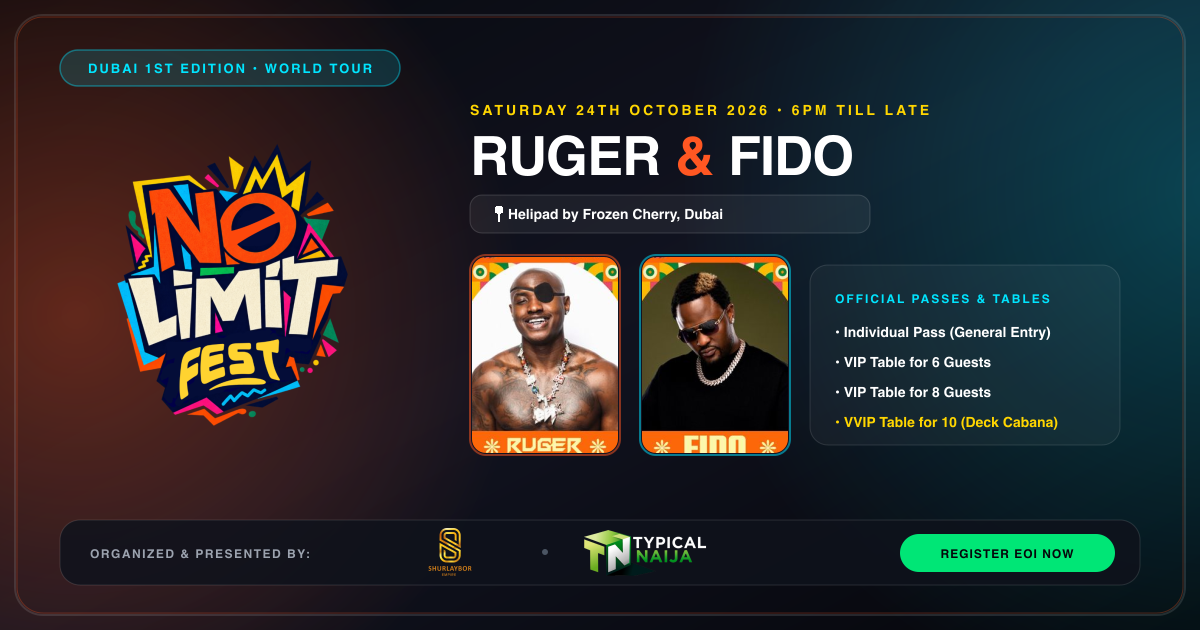
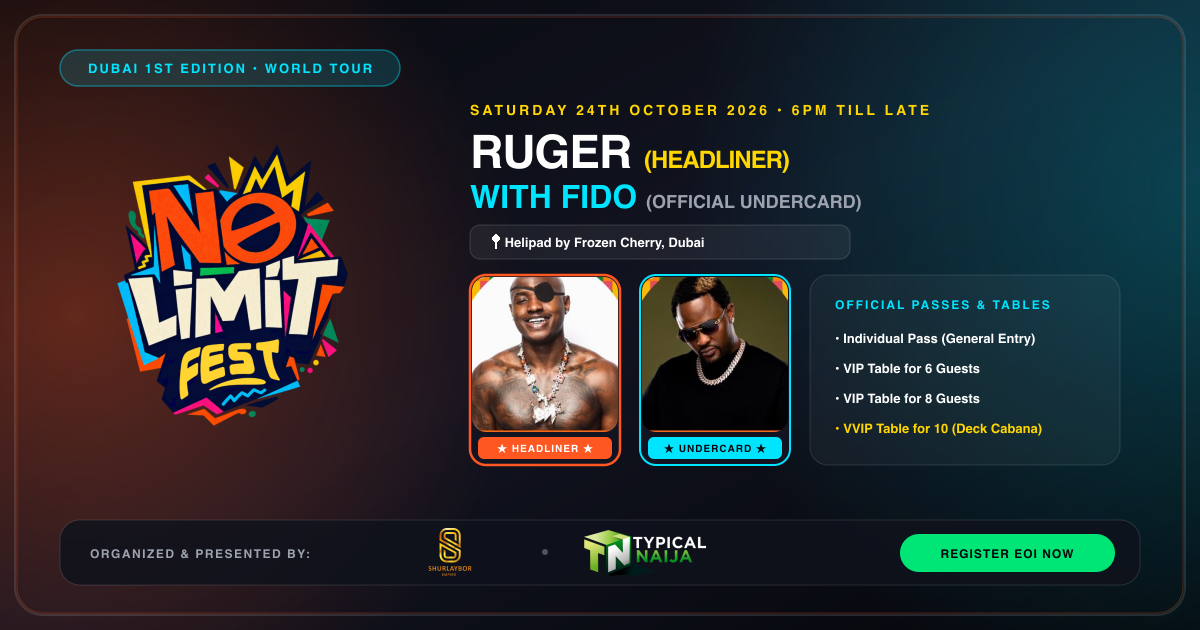
no message

Changed region(s): [[0.37, 0.2111, 0.8942, 0.754], [0.5858, 0.573, 0.6167, 0.6032], [0.4317, 0.6032, 0.4625, 0.6333]]

diff --git a/src/app/lineup/page.tsx b/src/app/lineup/page.tsx
@@ -17,9 +17,9 @@ import { getActiveEvent } from "@/data/events";
 import { siteConfig } from "@/config/site";
 
 export const metadata: Metadata = {
-  title: "Official Lineup: Ruger & Fido Live | No Limit Fest Dubai 2026",
+  title: "Official Lineup: Headliner Ruger & Undercard Fido | No Limit Fest Dubai 2026",
   description:
-    "Official headliners for No Limit Fest Dubai: Afrobeats superstars RUGER and FIDO live at Helipad by Frozen Cherry on Saturday 24th October 2026. Hit anthems 'Asiwaju', 'Bounce', 'Dior', 'Awolowo'. Register EOI now.",
+    "Official lineup for No Limit Fest Dubai: Headlined by Afrobeats superstar RUGER with official undercard performance by FIDO live at Helipad by Frozen Cherry on Saturday 24th October 2026. Hit anthems 'Asiwaju', 'Bounce', 'Dior', 'Awolowo'. Register EOI now.",
   keywords: [
     "Ruger live in Dubai",
     "Fido live in Dubai",
@@ -33,8 +33,8 @@ export const metadata: Metadata = {
     canonical: `${siteConfig.url}/lineup`,
   },
   openGraph: {
-    title: "Ruger & Fido Live at No Limit Fest Dubai 2026",
-    description: "Official Lineup starring Ruger and Fido at Helipad by Frozen Cherry, Dubai. Saturday 24th October 2026 (6PM Till Late).",
+    title: "Ruger (Headliner) & Fido (Undercard) Live at No Limit Fest Dubai 2026",
+    description: "Official Lineup starring Headliner Ruger and Undercard Fido at Helipad by Frozen Cherry, Dubai. Saturday 24th October 2026 (6PM Till Late).",
     url: `${siteConfig.url}/lineup`,
     images: [
       {
@@ -73,15 +73,15 @@ export default function LineupPage() {
     {
       id: "fido",
       name: "FIDO",
-      role: "Headliner",
-      subtitle: "Viral Afrobeats Sensation",
+      role: "Undercard",
+      subtitle: "Official Undercard Sensation",
       date: "Saturday 24th October 2026",
       time: "9:45 PM - 11:15 PM",
       venue: "Helipad by Frozen Cherry",
       image: "/images/artists/fido.jpg",
       hits: ["Awolowo", "Joy", "Vibe Machine"],
       spotifyUrl: "https://open.spotify.com",
-      bio: "Viral breakout sensation sweeping streaming charts across Africa and the diaspora with massive anthems like 'Awolowo', delivering unstoppable rhythm and high-octane energy.",
+      bio: "Viral breakout sensation sweeping streaming charts across Africa and the diaspora with massive anthems like 'Awolowo', delivering unstoppable rhythm and high-octane energy as the official undercard act.",
     },
   ];
 
@@ -103,7 +103,7 @@ export default function LineupPage() {
           </h1>
 
           <p className="text-gray-300 max-w-2xl mx-auto text-base sm:text-lg leading-relaxed">
-            Starring Nigerian Afrobeats giants <strong className="text-white">RUGER</strong> and <strong className="text-white">FIDO</strong> performing live at <strong className="text-white">Helipad by Frozen Cherry, Dubai</strong>. 6PM Till Late.
+            Headlined by Nigerian Afrobeats icon <strong className="text-white">RUGER</strong> with high-octane undercard direct support by <strong className="text-white">FIDO</strong> performing live at <strong className="text-white">Helipad by Frozen Cherry, Dubai</strong>. 6PM Till Late.
           </p>
         </div>
       </div>
@@ -114,7 +114,11 @@ export default function LineupPage() {
           {headliners.map((artist) => (
             <div
               key={artist.id}
-              className="group relative rounded-3xl overflow-hidden bg-[#131624] border border-white/15 hover:border-[#FF5722] transition-all duration-300 shadow-2xl flex flex-col justify-between"
+              className={`group relative rounded-3xl overflow-hidden bg-[#131624] border transition-all duration-300 shadow-2xl flex flex-col justify-between ${
+                artist.role === "Headliner"
+                  ? "border-amber-500/50 shadow-orange-500/10 ring-1 ring-amber-500/30"
+                  : "border-white/15 hover:border-[#00E5FF]"
+              }`}
             >
               <div className="relative aspect-[9/13] w-full overflow-hidden">
                 <Image
@@ -127,8 +131,12 @@ export default function LineupPage() {
                 <div className="absolute inset-0 bg-gradient-to-t from-[#131624] via-[#131624]/30 to-transparent" />
 
                 <div className="absolute top-4 left-4 right-4 flex items-center justify-between">
-                  <span className="px-3 py-1 rounded-full bg-black/70 backdrop-blur-md border border-white/20 text-xs font-black uppercase text-white">
-                    {artist.role}
+                  <span className={`px-3 py-1 rounded-full backdrop-blur-md text-xs font-black uppercase ${
+                    artist.role === "Headliner"
+                      ? "bg-gradient-to-r from-[#FF5722] to-[#FFD600] text-black shadow-lg"
+                      : "bg-black/70 border border-[#00E5FF]/40 text-[#00E5FF]"
+                  }`}>
+                    {artist.role === "Headliner" ? "★ HEADLINER ★" : "★ UNDERCARD ★"}
                   </span>
                   <span className="px-3 py-1 rounded-full bg-[#FF5722] text-white text-[10px] font-black uppercase tracking-wider shadow-lg">
                     Oct 24 • Dubai

diff --git a/src/components/home/Hero.tsx b/src/components/home/Hero.tsx
@@ -100,7 +100,7 @@ export default function Hero() {
             RUGER <span className="text-transparent bg-clip-text bg-gradient-to-r from-[#FF5722] via-[#FFD600] to-[#00E5FF]">&amp; FIDO</span>
           </h1>
           <p className="text-xl sm:text-2xl font-black uppercase text-[#FFD600] tracking-widest">
-            LIVE IN DUBAI
+            HEADLINER: RUGER • UNDERCARD: FIDO
           </p>
         </div>
 
@@ -126,18 +126,18 @@ export default function Hero() {
 
         {/* Official Headliner Flyers Preview */}
         <div className="mt-8 grid grid-cols-2 gap-4 max-w-md w-full">
-          <Link href="/lineup" className="group relative rounded-2xl overflow-hidden border border-white/15 hover:border-[#FF5722] transition-all shadow-xl hover:-translate-y-1">
+          <Link href="/lineup" className="group relative rounded-2xl overflow-hidden border border-amber-500/40 hover:border-[#FF5722] transition-all shadow-xl hover:-translate-y-1">
             <div className="relative aspect-[9/16] w-full">
               <Image
                 src="/images/artists/ruger.jpg"
-                alt="Ruger Live at No Limit Fest Dubai - Helipad by Frozen Cherry"
+                alt="Ruger Live at No Limit Fest Dubai - Official Headliner"
                 fill
                 className="object-cover transition-transform duration-500 group-hover:scale-105"
               />
             </div>
             <div className="p-2.5 bg-[#121422] text-center">
               <span className="text-xs font-black uppercase text-[#FF5722] block">★ RUGER ★</span>
-              <span className="text-[10px] text-gray-400">Headliner</span>
+              <span className="text-[10px] text-amber-400 font-black uppercase tracking-wider">Official Headliner</span>
             </div>
           </Link>
 
@@ -145,14 +145,14 @@ export default function Hero() {
             <div className="relative aspect-[9/16] w-full">
               <Image
                 src="/images/artists/fido.jpg"
-                alt="Fido Live at No Limit Fest Dubai - Helipad by Frozen Cherry"
+                alt="Fido Live at No Limit Fest Dubai - Official Undercard"
                 fill
                 className="object-cover transition-transform duration-500 group-hover:scale-105"
               />
             </div>
             <div className="p-2.5 bg-[#121422] text-center">
               <span className="text-xs font-black uppercase text-[#00E5FF] block">★ FIDO ★</span>
-              <span className="text-[10px] text-gray-400">Headliner</span>
+              <span className="text-[10px] text-cyan-400 font-black uppercase tracking-wider">Official Undercard</span>
             </div>
           </Link>
         </div>
@@ -231,14 +231,14 @@ export default function Hero() {
       {/* Marquee Ticker */}
       <div className="w-full mt-12 overflow-hidden border-y border-white/10 bg-[#0C0E17]/80 py-3.5 backdrop-blur-md">
         <div className="flex animate-marquee whitespace-nowrap text-xs sm:text-sm font-black uppercase tracking-widest text-gray-300">
-          <span className="mx-4 text-[#FF5722]">★ RUGER LIVE IN DUBAI</span>
-          <span className="mx-4 text-[#00E5FF]">★ FIDO LIVE AT HELIPAD</span>
+          <span className="mx-4 text-[#FF5722]">★ HEADLINER: RUGER LIVE</span>
+          <span className="mx-4 text-[#00E5FF]">★ UNDERCARD: FIDO LIVE</span>
           <span className="mx-4 text-[#FFD600]">★ SATURDAY 24TH OCTOBER 2026</span>
           <span className="mx-4 text-emerald-400">★ 6PM TILL LATE</span>
           <span className="mx-4 text-[#FF007F]">★ HELIPAD BY FROZEN CHERRY</span>
           <span className="mx-4 text-white">★ INDIVIDUAL PASSES &amp; TABLES (6, 8, 10)</span>
-          <span className="mx-4 text-[#FF5722]">★ RUGER LIVE IN DUBAI</span>
-          <span className="mx-4 text-[#00E5FF]">★ FIDO LIVE AT HELIPAD</span>
+          <span className="mx-4 text-[#FF5722]">★ HEADLINER: RUGER LIVE</span>
+          <span className="mx-4 text-[#00E5FF]">★ UNDERCARD: FIDO LIVE</span>
           <span className="mx-4 text-[#FFD600]">★ SATURDAY 24TH OCTOBER 2026</span>
           <span className="mx-4 text-emerald-400">★ 6PM TILL LATE</span>
           <span className="mx-4 text-[#FF007F]">★ HELIPAD BY FROZEN CHERRY</span>

diff --git a/src/components/home/LineupTeaser.tsx b/src/components/home/LineupTeaser.tsx
@@ -20,14 +20,14 @@ export default function LineupTeaser() {
     {
       id: "fido",
       name: "FIDO",
-      role: "Headliner",
-      subtitle: "Viral Afrobeats Sensation",
+      role: "Undercard",
+      subtitle: "Official Undercard Sensation",
       date: "Saturday 24th October 2026",
       venue: "Helipad by Frozen Cherry",
       image: "/images/artists/fido.jpg",
       hits: ["Awolowo", "Joy", "Vibe Machine"],
       spotifyUrl: "https://open.spotify.com",
-      bio: "Unstoppable breakout sensation sweeping streaming charts and concert stages with high-energy crowd favorites and irresistible rhythm.",
+      bio: "Unstoppable breakout sensation sweeping streaming charts, setting the stage ablaze with high-energy crowd favorites and irresistible rhythm before the headline set.",
       color: "from-[#00E5FF] to-[#FF5722]",
     },
   ];
@@ -43,7 +43,7 @@ export default function LineupTeaser() {
         <div className="text-center space-y-3">
           <div className="inline-flex items-center gap-2 px-4 py-1.5 rounded-full bg-[#FF5722]/15 border border-[#FF5722]/30 text-[#FF6E40] text-xs font-black uppercase tracking-widest">
             <Radio className="w-3.5 h-3.5 animate-pulse" />
-            <span>Dubai Headliners Announcement</span>
+            <span>Dubai Headliners & Undercard</span>
           </div>
 
           <h2 className="text-3xl sm:text-5xl lg:text-6xl font-black text-white uppercase tracking-tight">
@@ -51,17 +51,21 @@ export default function LineupTeaser() {
           </h2>
 
           <p className="text-gray-300 max-w-2xl mx-auto text-base sm:text-lg">
-            Headlined by Afrobeats icons <strong className="text-white">RUGER</strong> and <strong className="text-white">FIDO</strong> live on the Dubai waterfront. Saturday 24th October 2026.
+            Headlined by Afrobeats superstar <strong className="text-white">RUGER</strong> with high-voltage undercard performance by <strong className="text-white">FIDO</strong> live on the Dubai waterfront. Saturday 24th October 2026.
           </p>
         </div>
 
         {/* Headliner Cards Grid + More To Join Teaser */}
         <div className="grid grid-cols-1 md:grid-cols-2 lg:grid-cols-3 gap-8 items-stretch max-w-6xl mx-auto">
-          {/* Ruger Card */}
+          {/* Artists Cards */}
           {headliners.map((artist) => (
             <div
               key={artist.id}
-              className="group relative rounded-3xl overflow-hidden bg-[#131624] border border-white/15 hover:border-[#FF5722] transition-all duration-300 hover:-translate-y-2 shadow-2xl flex flex-col justify-between"
+              className={`group relative rounded-3xl overflow-hidden bg-[#131624] border transition-all duration-300 hover:-translate-y-2 shadow-2xl flex flex-col justify-between ${
+                artist.role === "Headliner"
+                  ? "border-amber-500/50 shadow-orange-500/10 ring-1 ring-amber-500/30"
+                  : "border-white/15 hover:border-[#00E5FF]"
+              }`}
             >
               <div className="relative aspect-[9/13] w-full overflow-hidden">
                 <Image
@@ -73,8 +77,12 @@ export default function LineupTeaser() {
                 <div className="absolute inset-0 bg-gradient-to-t from-[#131624] via-[#131624]/30 to-transparent" />
 
                 <div className="absolute top-4 left-4 right-4 flex items-center justify-between">
-                  <span className="px-3 py-1 rounded-full bg-black/70 backdrop-blur-md border border-white/20 text-xs font-black uppercase text-white">
-                    {artist.role}
+                  <span className={`px-3 py-1 rounded-full backdrop-blur-md text-xs font-black uppercase ${
+                    artist.role === "Headliner"
+                      ? "bg-gradient-to-r from-[#FF5722] to-[#FFD600] text-black shadow-lg shadow-orange-500/20"
+                      : "bg-black/70 border border-[#00E5FF]/40 text-[#00E5FF]"
+                  }`}>
+                    {artist.role === "Headliner" ? "★ HEADLINER ★" : "★ UNDERCARD ★"}
                   </span>
                   <span className="px-3 py-1 rounded-full bg-[#FF5722] text-white text-[10px] font-black uppercase tracking-wider shadow-lg">
                     Oct 24 • Dubai

diff --git a/src/data/events.ts b/src/data/events.ts
@@ -432,15 +432,15 @@ export const festivalEvents: FestivalEvent[] = [
     year: "2026",
     venue: "Helipad by Frozen Cherry, Dubai",
     address: "Helipad by Frozen Cherry, Dubai, UAE",
-    tagline: "RUGER & FIDO Live at Helipad by Frozen Cherry • Saturday 24th Oct • 6PM Till Late",
-    description: "No Limit Fest unleashes in Dubai on Saturday, October 24th, 2026 at the breathtaking Helipad by Frozen Cherry! Headlined by global Afrobeats superstars RUGER and FIDO performing their biggest chart-topping anthems live. Unmatched sunset vibes, skyline views, world-class sound, and exclusive VIP tables.",
+    tagline: "Headliner RUGER with Undercard FIDO Live at Helipad by Frozen Cherry • Saturday 24th Oct • 6PM Till Late",
+    description: "No Limit Fest unleashes in Dubai on Saturday, October 24th, 2026 at the breathtaking Helipad by Frozen Cherry! Headlined by global Afrobeats superstar RUGER with an electrifying undercard performance by viral hitmaker FIDO. Unmatched sunset vibes, skyline views, world-class sound, and exclusive VIP tables.",
     heroImage: "/images/artists/ruger.jpg",
     stagesCount: 2,
     expectedAttendance: "5,000+ Exclusive Guests",
     isCurrentEdition: true,
     ticketTiers: standardTiersDubai,
     experiences: [
-      "Headline Live Concerts by RUGER & FIDO",
+      "Headline Live Concert by RUGER with Undercard Performance by FIDO",
       "Spectacular Sunset Views from Helipad by Frozen Cherry",
       "VIP Lounge Tables (Table for 6, Table for 8, Table for 10)",
       "Premium Bottle Service & Signature Frozen Cherry Mixology",

diff --git a/src/data/artists.ts b/src/data/artists.ts
@@ -1,7 +1,7 @@
 export interface Artist {
   id: string;
   name: string;
-  role: "Headliner" | "Co-Headliner" | "Special Guest" | "Supporting Act";
+  role: "Headliner" | "Co-Headliner" | "Undercard" | "Special Guest" | "Supporting Act";
   genre: "Afrobeats" | "Hip-Hop" | "EDM / Electronic" | "Amapiano" | "Latin & Pop";
   day: "Day 1" | "Day 2" | "Day 3";
   stage: string;
@@ -31,13 +31,13 @@ export const festivalArtists: Artist[] = [
   {
     id: "fido",
     name: "FIDO",
-    role: "Headliner",
+    role: "Undercard",
     genre: "Afrobeats",
     day: "Day 1",
     stage: "Helipad Mainstage",
     time: "9:45 PM - 11:15 PM",
     image: "/images/artists/fido.jpg",
-    bio: "Viral breakout sensation dominating streaming charts across Africa and the diaspora with massive anthems like 'Awolowo', delivering unstoppable rhythm and high-octane energy.",
+    bio: "Viral breakout sensation dominating streaming charts across Africa and the diaspora with massive anthems like 'Awolowo', delivering unstoppable rhythm and high-octane energy as the official undercard act.",
     origin: "Lagos, Nigeria",
     hits: ["Awolowo", "Joy", "Vibe Machine"],
     spotifyUrl: "https://open.spotify.com",

diff --git a/src/data/faq.ts b/src/data/faq.ts
@@ -15,8 +15,8 @@ export const festivalFaqs: FAQItem[] = [
   {
     id: "headliners-lineup",
     category: "Tickets & EOI",
-    question: "Who are the headlining artists performing at No Limit Fest Dubai?",
-    answer: "The premier Dubai edition is headlined by global Afrobeats sensations RUGER (chart-topper behind 'Asiwaju', 'Bounce', and 'Dior') and FIDO (hitmaker behind the viral sensation 'Awolowo'). Supporting international and regional guest DJs, percussionists, and entertainers will be announced in Phase 2.",
+    question: "Who is headlining and who is on the undercard for No Limit Fest Dubai?",
+    answer: "The premier Dubai edition is headlined by global Afrobeats superstar RUGER (chart-topper behind 'Asiwaju', 'Bounce', and 'Dior'), with viral breakout star FIDO ('Awolowo') performing as the official undercard direct support act. Supporting international and regional guest DJs, percussionists, and entertainers will be announced in Phase 2.",
   },
   {
     id: "organizers-presenters",

diff --git a/src/components/seo/JsonLd.tsx b/src/components/seo/JsonLd.tsx
@@ -128,7 +128,7 @@ export default function JsonLd() {
         "@type": "Person",
         "name": "FIDO",
         "genre": "Afrobeats",
-        "jobTitle": "Headliner",
+        "jobTitle": "Undercard Performer",
         "image": `${siteConfig.url}/images/artists/fido.jpg`,
         "sameAs": [
           "https://open.spotify.com/artist/7zC8Y6sUqLp558B1dK7t51",
